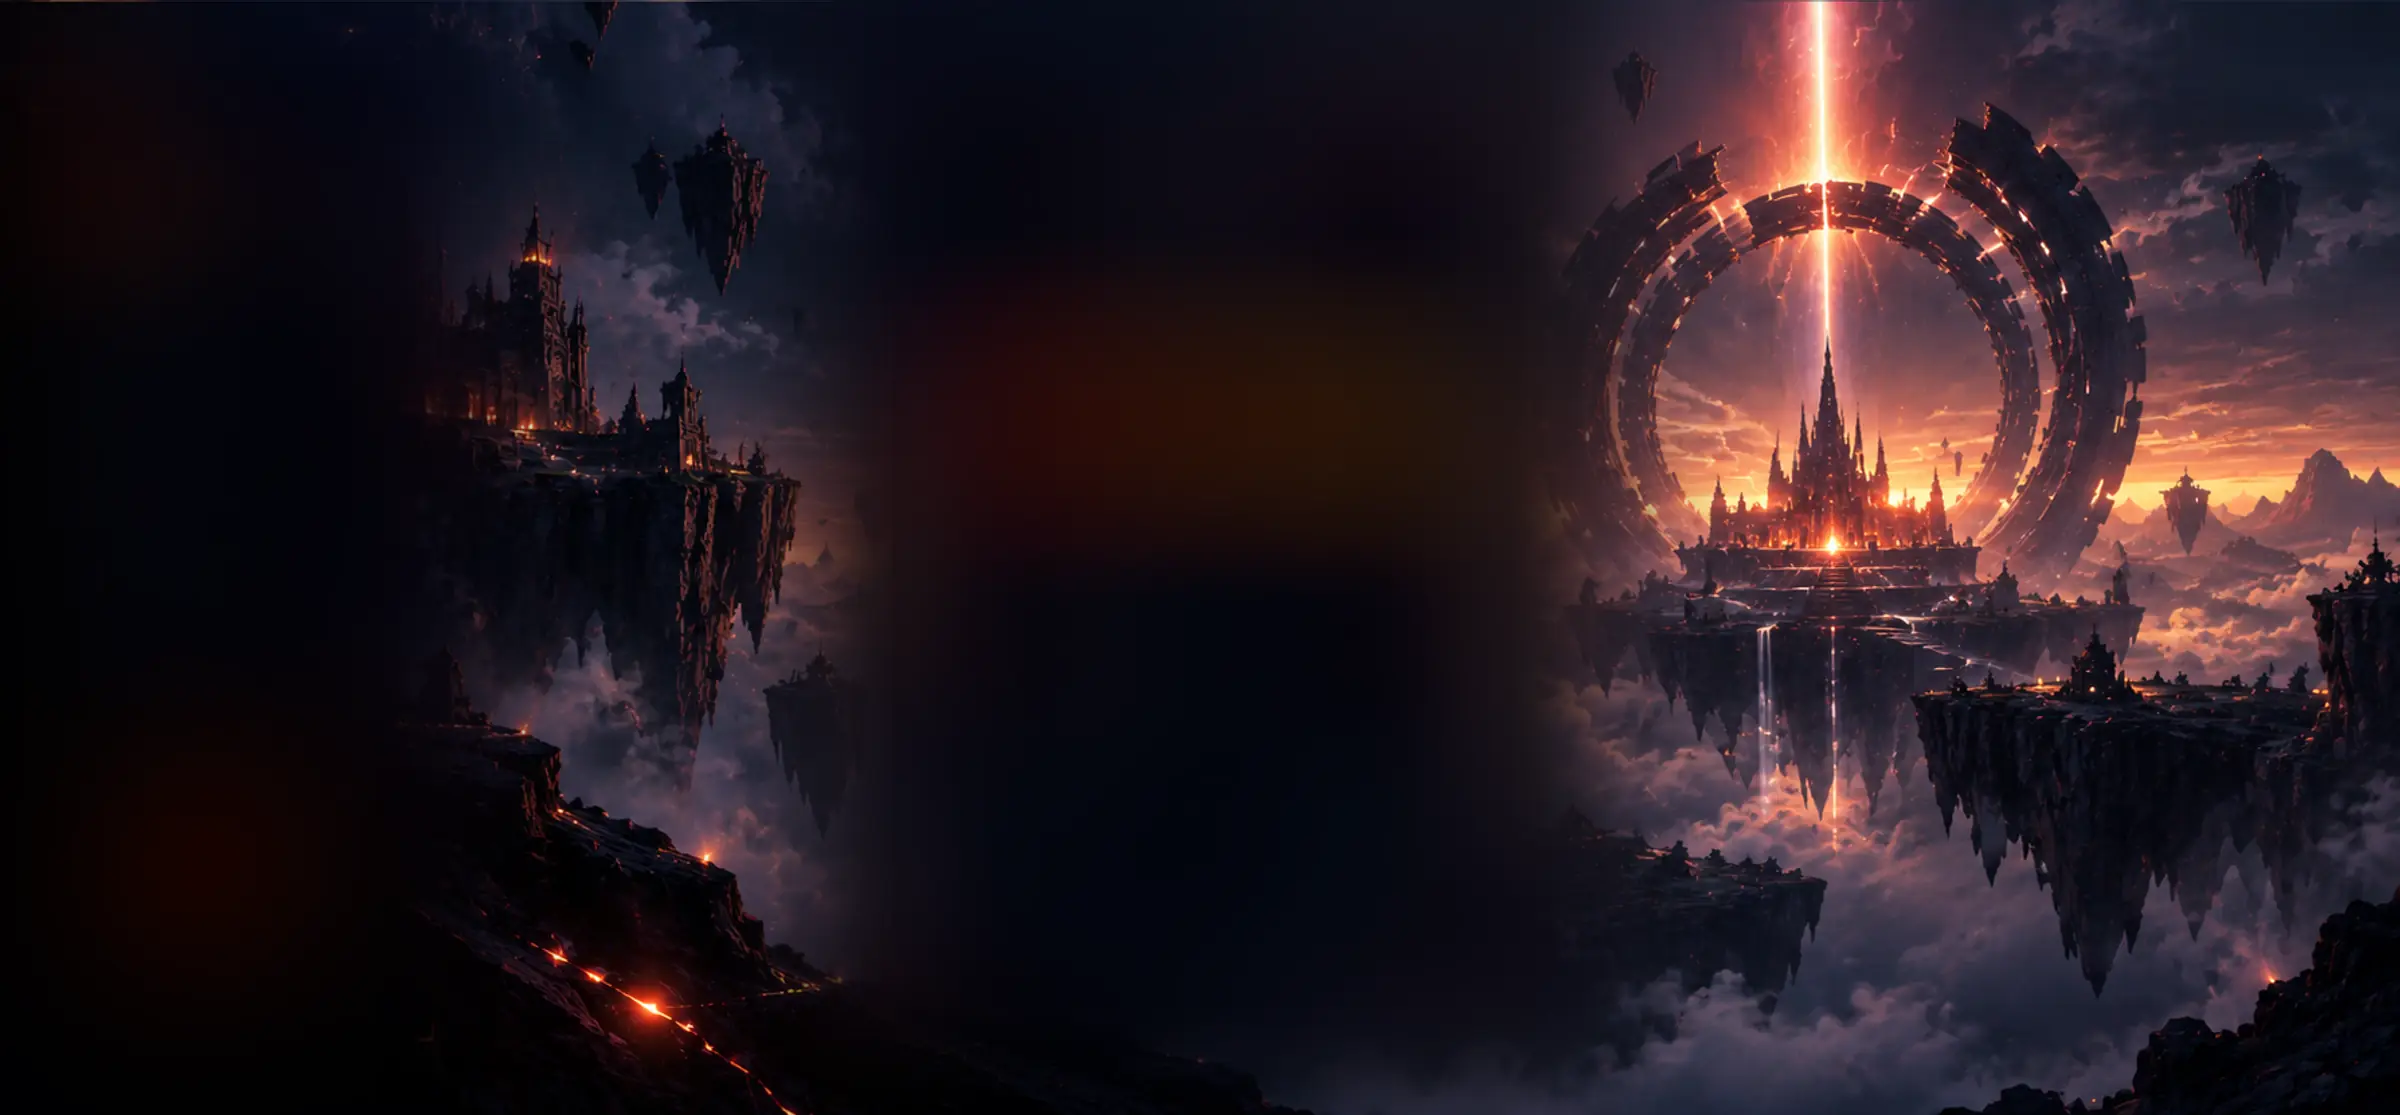
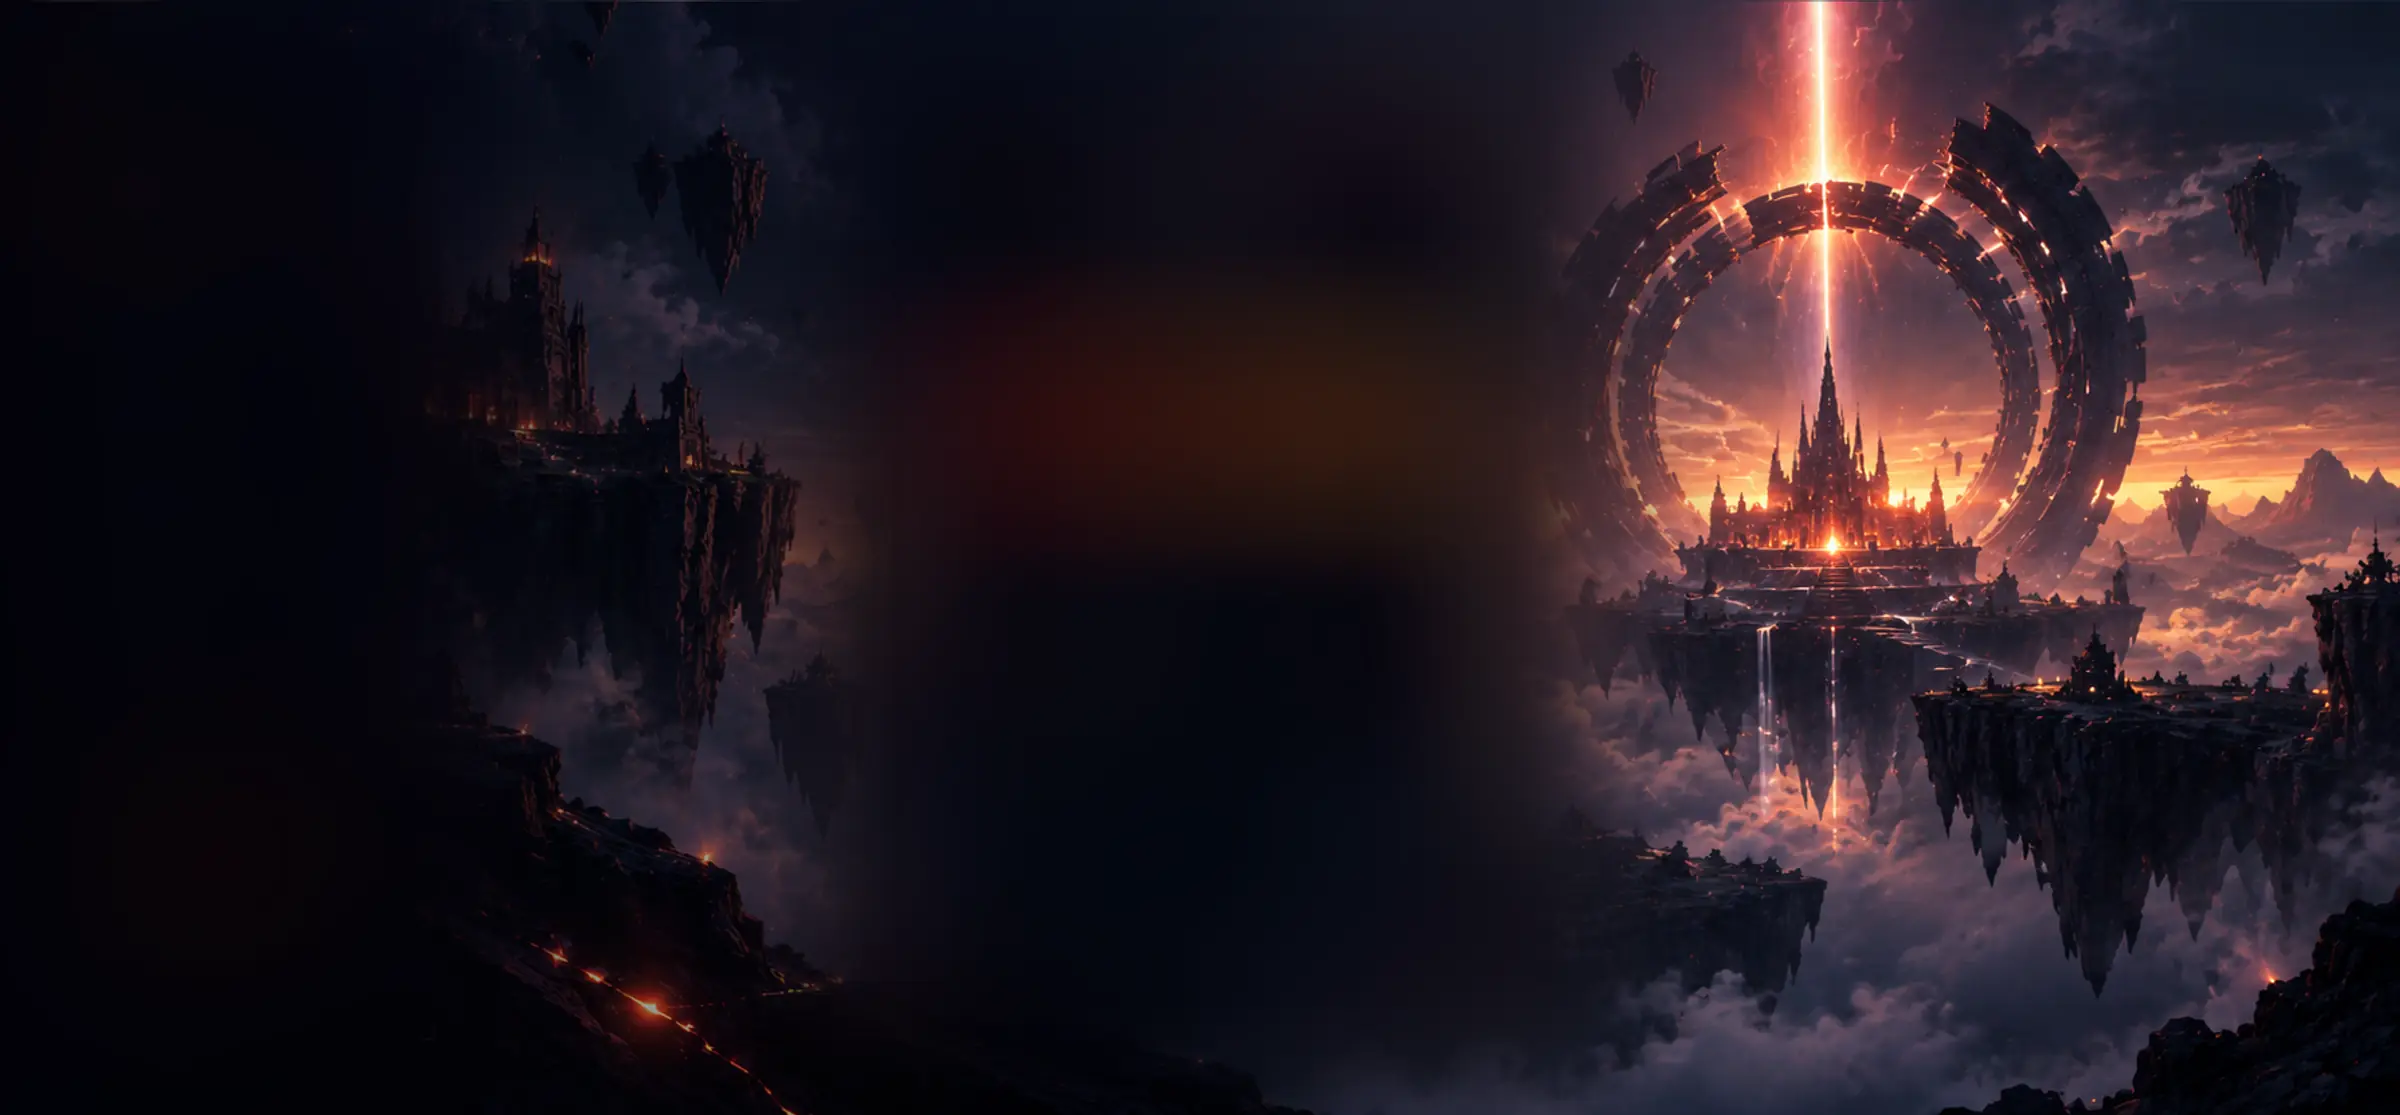
타이틀 배경: 검은 네모 대신 왼쪽을 서서히 재운다
지운 자리만 검게 눌러 두니, 진짜 UI 가 시안의 가짜 UI 보다 작아서 둘레에
검은 네모가 그대로 드러났다. 세로 경계가 보이는 게 문제였다.

왼쪽 62% 를 가로 그라데이션으로 서서히 재우고 그 위에 지우기를 얹었다.
경계가 사라지고, 오른쪽 포탈만 밝게 남아 시선이 그리로 간다. 왼쪽 성도
희미하게 살아난다.

Changed region(s): [[0.1875, 0.2135, 0.3438, 0.7928], [0.2188, 0.8538, 0.3125, 0.9453]]

diff --git a/scripts/erase-mockup-ui.js b/scripts/erase-mockup-ui.js
@@ -40,15 +40,35 @@ async function main() {
   const H = meta.height - TOP_BAR;
   console.log(`원본 ${meta.width}×${meta.height} → 상단 바 ${TOP_BAR}px 잘라 ${W}×${H}`);
 
-  const base = await sharp(src)
+  // 왼쪽으로 갈수록 어두워지는 그라데이션을 먼저 깐다.
+  // 지운 자리만 검게 눌러 두면 남은 풍경과 사이에 세로 경계가 생겨
+  // "검은 네모" 로 읽힌다. 왼쪽 전체를 서서히 재우면 그 경계가 사라지고,
+  // 오른쪽 포탈만 밝게 남아 시선이 그리로 간다.
+  const RAMP = 0.62;   // 이 비율까지 어둡게 재운다(오른쪽은 그대로)
+
+  const raw = await sharp(src)
     .extract({ left: 0, top: TOP_BAR, width: W, height: H })
     .png()
     .toBuffer();
 
+  const ramp = Buffer.from(
+    `<svg xmlns="http://www.w3.org/2000/svg" width="${W}" height="${H}">` +
+    `<defs><linearGradient id="g" x1="0" y1="0" x2="1" y2="0">` +
+    `<stop offset="0%" stop-color="#05060f" stop-opacity="0.72"/>` +
+    `<stop offset="${Math.round(RAMP * 100)}%" stop-color="#05060f" stop-opacity="0"/>` +
+    `</linearGradient></defs>` +
+    `<rect width="${W}" height="${H}" fill="url(#g)"/></svg>`);
+
+  const base = await sharp(raw)
+    .composite([{ input: ramp }])
+    .png()
+    .toBuffer();
+
+
   // 뭉갠 뒤 어둡게 누른 판. 이걸 가짜 UI 자리에만 덮는다.
   const soft = await sharp(base)
     .blur(64)
-    .modulate({ brightness: 0.36, saturation: 0.65 })
+    .modulate({ brightness: 0.55, saturation: 0.8 })
     .removeAlpha()
     .raw()
     .toBuffer();
